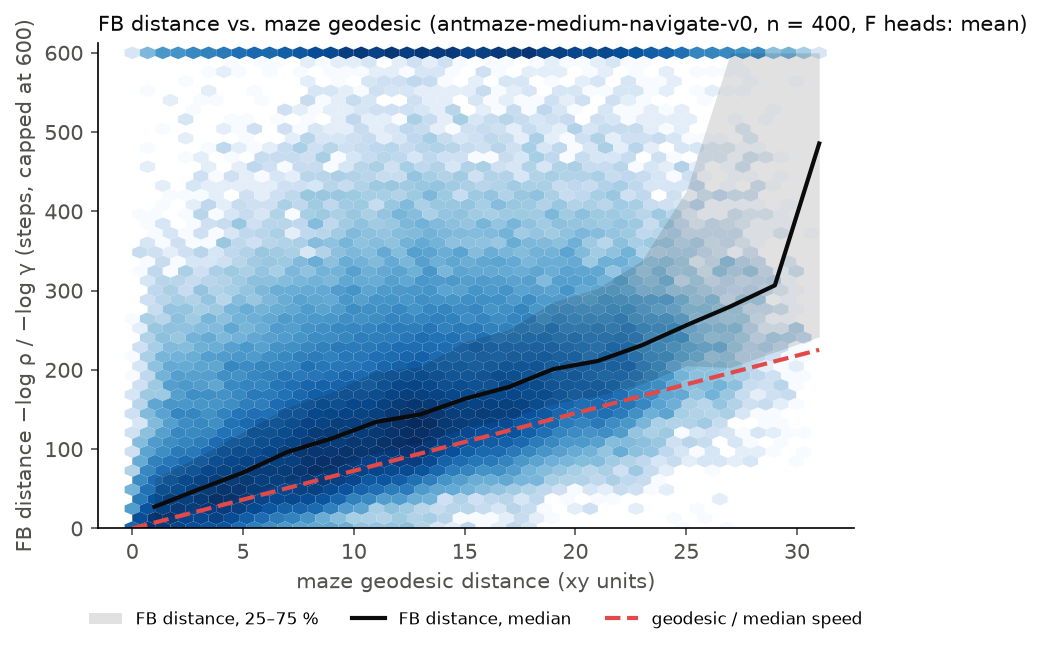
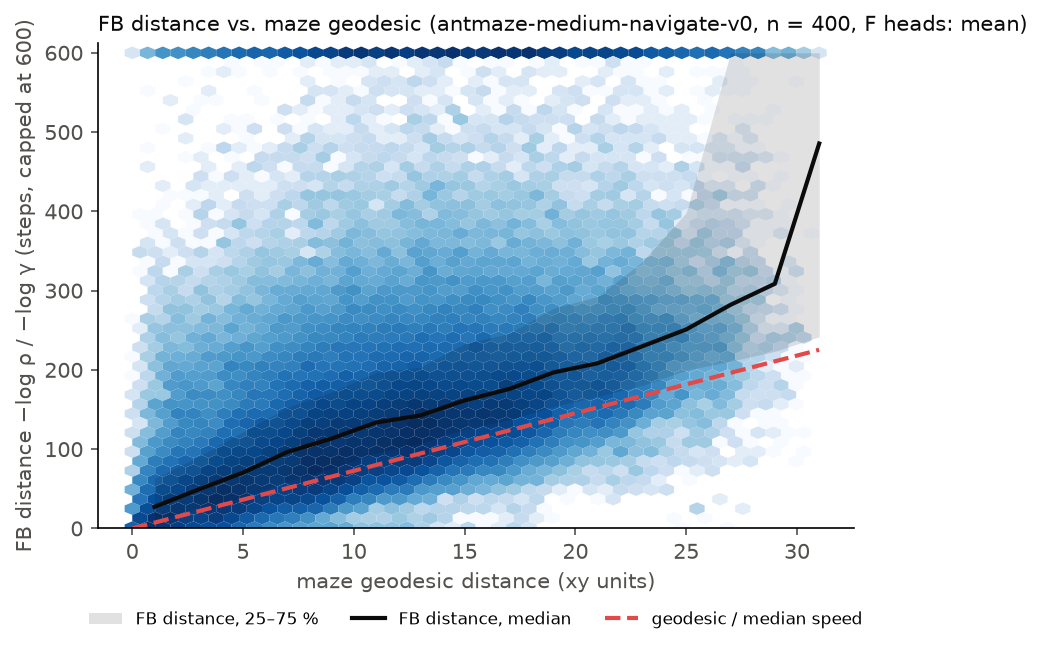
Count unwalkable pairs apart in the calibration; add a trapped failure class; recompute the calibration

diff --git a/analysis/failures.py b/analysis/failures.py
@@ -10,6 +10,7 @@ from the CSV). Classes, from the ant's observations:
 - flipped: the torso points down (body z-axis below the horizon) for the last 50 steps;
   the ant cannot turn back, so this is a pi_l failure that no high-level choice can repair;
 - stuck: not flipped, and the xy position stays within 1 unit over the last 300 steps;
+- trapped: not flipped, and the final cell cannot reach the goal on foot (a teleport trap);
 - other: still moving at the time limit (slow, lost or on a wrong route).
 
 It prints and writes (--out, default <csv folder>/failures/<csv name>) a table per task and
@@ -42,7 +43,7 @@ from fbplan.maze import MazeGeometry
 from fbplan.stats import CHECKPOINT_DEFAULTS, load_results
 
 FLIP_WINDOW, STUCK_WINDOW, STUCK_RADIUS = 50, 300, 1.0
-CLASSES = ["flipped", "stuck", "other"]
+CLASSES = ["flipped", "stuck", "other", "trapped"]
 
 
 def upright(observations: np.ndarray) -> np.ndarray:
@@ -58,6 +59,13 @@ def classify(observations: np.ndarray) -> str:
     if np.linalg.norm(xy - xy.mean(axis=0), axis=1).max() < STUCK_RADIUS:
         return "stuck"
     return "other"
+
+
+def failure_class(observations: np.ndarray, cells_left: int) -> str:
+    """classify, with "trapped" for an episode that ends where the goal cannot be walked to
+    (cells_left < 0: no cell path from the final cell to the goal cell)."""
+    failure = classify(observations)
+    return "trapped" if failure != "flipped" and cells_left < 0 else failure
 
 
 def replay_failures(
@@ -87,7 +95,8 @@ def replay_failures(
             raise RuntimeError(f"replay of {row} differs: {record}")
         obs = np.stack(controller.observations)
         cells_left = maze.bfs_steps(maze.cell_of(task.goal_xy))[maze.cell_of(obs[-1, :2])]
-        out.append({**row, "failure": classify(obs), "cells_left": int(cells_left)})
+        out.append({**row, "failure": failure_class(obs, int(cells_left)),
+                    "cells_left": int(cells_left)})
     return out
 
 

diff --git a/analysis/calibration.py b/analysis/calibration.py
@@ -80,6 +80,7 @@ def wormhole_table(
 ) -> pd.DataFrame:
     """One row per rho_min: trust counts, wormholes by walking speed and their share."""
     off_diagonal = ~np.eye(len(geodesic), dtype=bool)
+    walkable = np.isfinite(geodesic)  # a teleport trap exit cannot be reached on foot
     rows = []
     for rho_min in rho_mins:
         above = (table.rho_raw >= rho_min) & off_diagonal
@@ -95,7 +96,8 @@ def wormhole_table(
             "wormholes": int(holes.sum()),
             "wormhole_share": holes.sum() / max(trusted.sum(), 1),
             "wormholes_within_xy_cap": int((holes & (xy_dist <= max_edge_xy)).sum()),
-            "longest_geodesic": float(geodesic[holes].max()) if holes.any() else 0.0,
+            "unreachable_on_foot": int((holes & ~walkable).sum()),
+            "longest_geodesic": float(geodesic[holes & walkable].max(initial=0.0)),
         })
     return pd.DataFrame(rows)
 
@@ -173,13 +175,13 @@ def main() -> None:
     speeds = step_speeds(data)
     median_speed, top_speed = float(np.median(speeds)), float(np.quantile(speeds, 0.99))
 
-    off_diagonal = ~np.eye(args.n, dtype=bool)
-    rho, geo = table.rho[off_diagonal], geodesic[off_diagonal]
+    plotted = ~np.eye(args.n, dtype=bool) & np.isfinite(geodesic)
+    rho, geo = table.rho[plotted], geodesic[plotted]
     tag = f"{args.env}, n = {args.n}, F heads: {args.head_agg}"
     plot_calibration(geo, fb_distance(rho, model.discount), median_speed,
                      f"FB distance vs. maze geodesic ({tag})",
                      args.out_dir / f"calibration_{args.env}_{args.head_agg}.png")
-    print(f"{tag}: {off_diagonal.sum()} ordered pairs; rho clipped low {table.n_clipped_low}, "
+    print(f"{tag}: {plotted.sum()} walkable ordered pairs; rho clipped low {table.n_clipped_low}, "
           f"high {table.n_clipped_high}; rho = 0 for {np.mean(rho == 0):.1%}")
     print(f"step speed: median {median_speed:.3f}, p99 {top_speed:.3f} xy units per step\n")
 

diff --git a/tests/test_analysis.py b/tests/test_analysis.py
@@ -79,6 +79,14 @@ def test_classify_separates_flipped_stuck_and_other_episodes():
     assert failures.classify(_ant(1000, upright=True, moving=True)) == "other"
 
 
+def test_failure_class_marks_episodes_that_end_where_the_goal_cannot_be_walked_to():
+    moving = _ant(1000, upright=True, moving=True)
+    assert failures.failure_class(moving, cells_left=-1) == "trapped"
+    assert failures.failure_class(moving, cells_left=3) == "other"
+    flipped = _ant(1000, upright=False, moving=True)
+    assert failures.failure_class(flipped, cells_left=-1) == "flipped"
+
+
 def test_failure_table_keeps_tasks_without_failures_and_counts_shares():
     episodes = pd.DataFrame({"task_id": [1, 1, 2, 2], "episode": [0, 1, 0, 1]})
     failed = pd.DataFrame({"task_id": [1, 1], "episode": [0, 1], "failure": ["flipped", "other"]})
@@ -90,6 +98,18 @@ def test_failure_table_keeps_tasks_without_failures_and_counts_shares():
     none = failures.failure_table(episodes, failed.iloc[:0])
     assert none.loc["all", "failures"] == 0
     assert np.isnan(none.loc["all", "flipped_share"])
+
+
+def test_wormhole_table_counts_unreachable_pairs_apart():
+    rho_raw = np.array([[1.0, 0.9], [0.9, 1.0]])
+    table = OptionTable(rho=np.minimum(rho_raw, 0.99), rho_raw=rho_raw, reward=None,
+                        n_clipped_low=0, n_clipped_high=0)
+    geodesic = np.array([[0.0, np.inf], [np.inf, 0.0]])  # a teleport trap: no walk between them
+    xy = np.array([[0.0, 1.0], [1.0, 0.0]])
+    (row,) = calibration.wormhole_table(table, geodesic, xy, 0.99, 0.1, [0.3], 6.0).to_dict(
+        "records"
+    )
+    assert (row["wormholes"], row["unreachable_on_foot"], row["longest_geodesic"]) == (2, 2, 0.0)
 
 
 def test_fb_distance_inverts_the_discount():
